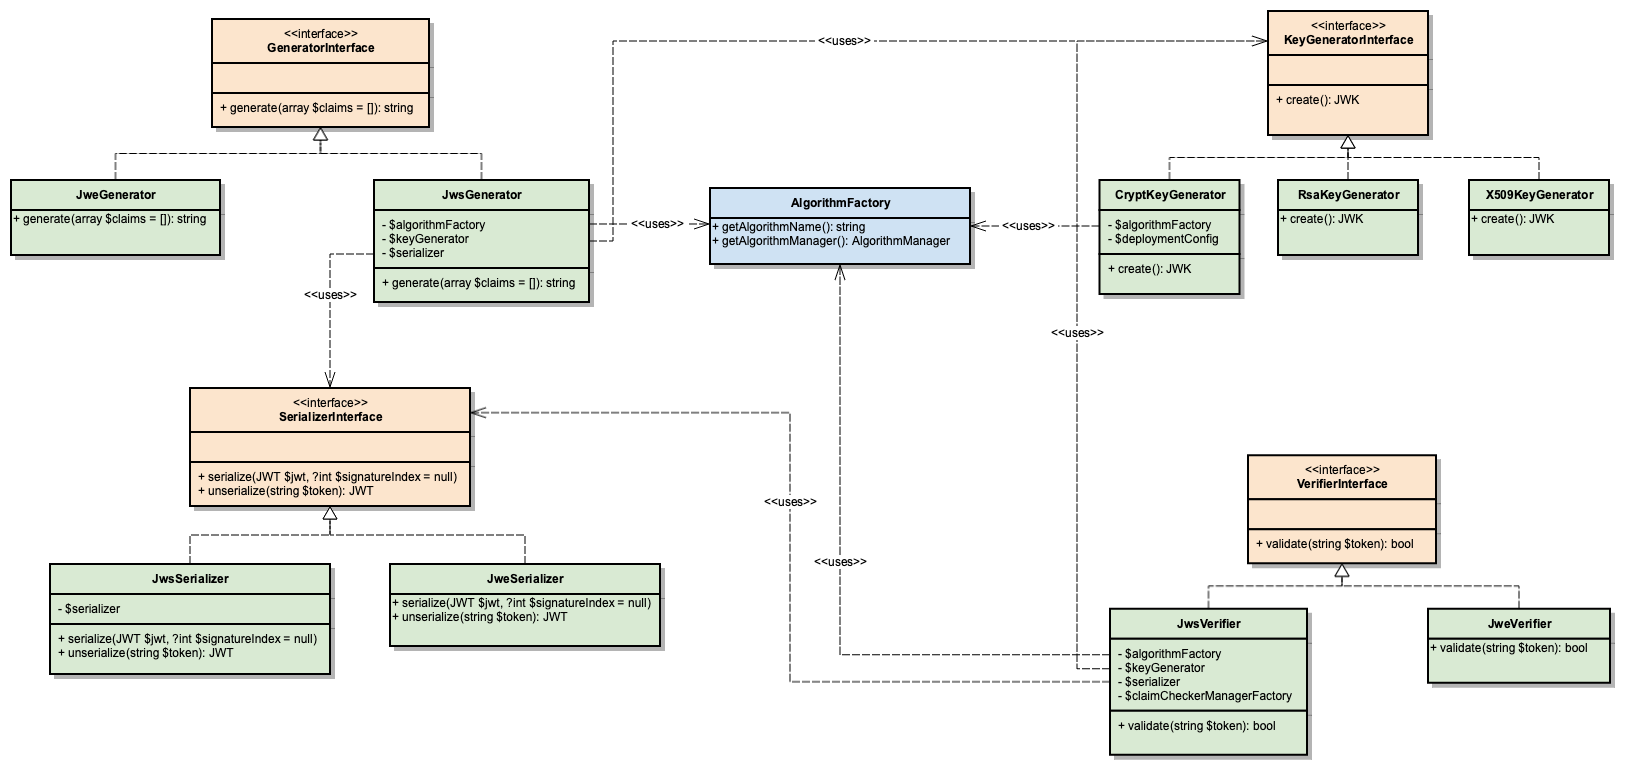
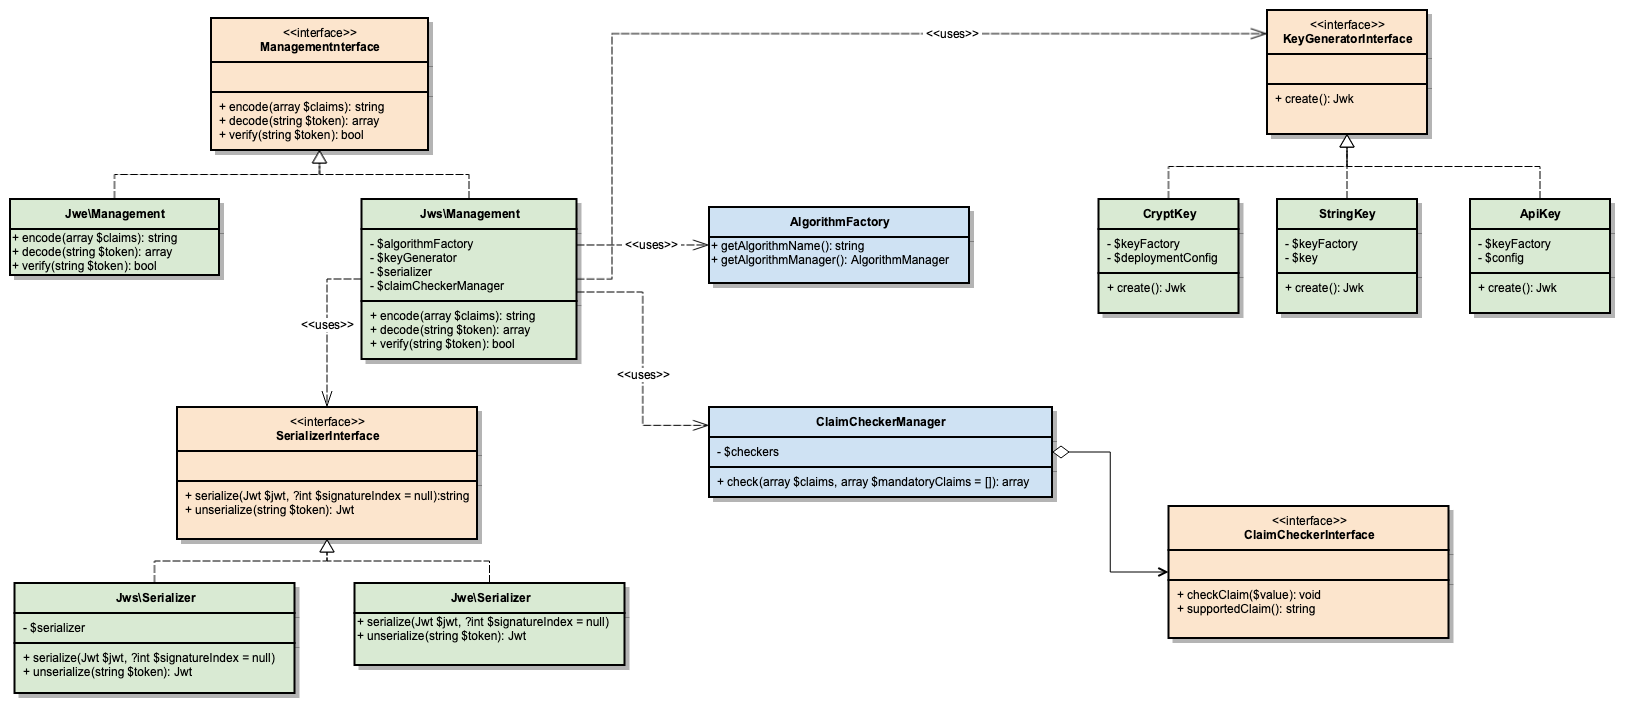
Updated proposal according to implementation changes.

diff --git a/design-documents/jwt-support.md b/design-documents/jwt-support.md
@@ -59,122 +59,172 @@ The following diagram represents needed interfaces to unify the workflow for JWT
 
 ![Class diagram](img/jwt-class-diagram.png)
 
-The `\Magento\Framework\Jwt\KeyGeneratorInterface` will provide a possibility to use different types of key generators like: Magento deployment secret key, X.509 certificates or RSA keys.
+The `\Magento\Framework\Jwt\KeyGeneratorInterface` provides a possibility to use different types of key generators like: Magento deployment secret key, X.509 certificates or RSA keys.
 ```php
 interface KeyGeneratorInterface
 {
-    public function create(): JWK;
+    public function create(): Jwk;
 }
 
-class CryptKeyGenerator implements KeyGeneratorInterface
+class CryptKey implements KeyGeneratorInterface
 {
-    public function __construct(AlgorithmFactory $algorithmFactory, DeploymentConfig $deploymentConfig)
+    public function __construct(SecretKeyFactory $keyFactory, DeploymentConfig $deploymentConfig)
     {
-        $this->algorithmFactory = $algorithmFactory;
         $this->deploymentConfig = $deploymentConfig;
+        $this->keyFactory = $keyFactory;
     }
 
-    public function create(): JWK
+    public function create(): Jwk
     {
         $secret = (string) $this->deploymentConfig->get('crypt/key');
-        return JWKFactory::createFromSecret(
-            $secret,
-            ['alg' => $this->algorithmFactory->getAlgorithmName(), 'use' => 'sig']
-        );
+        return $this->keyFactory->create($secret);
     }
 }
 ```
 
-The `\Magento\Framework\Jwt\GeneratorInterface` might be used to generate JWT based on claims:
+The `\Magento\Framework\Jwt\ManagementInterface` is a base abstraction for JWT encoding/decoding/verification:
 ```php
-interface GeneratorInterface
+interface ManagementInterface
 {
-    public function generate(array $claims = []): string;
-}
+    /**
+     * Generates JWT in header.payload.signature format.
+     *
+     * @param array $claims
+     * @return string
+     * @throws \Exception
+     */
+    public function encode(array $claims): string;
 
-class JwsGenerator implements GeneratorInterface
-{
-    public function __construct(
-        AlgorithmFactory $algorithmFactory,
-        CryptKeyGenerator $keyGenerator,
-        SerializerInterface $serializer
-    ) {
-        $this->algorithmFactory = $algorithmFactory;
-        $this->keyGenerator = $keyGenerator;
-        $this->serializer = $serializer;
-    }
+    /**
+     * Parses JWT and returns payload.
+     *
+     * @param string $token
+     * @return array
+     */
+    public function decode(string $token): array;
 
-    public function generate(array $claims = []): string
-    {
-        $timestamp = time();
-        $baseClaims = [
-            'iat' => $timestamp,
-            'nbf' => $timestamp,
-            'exp' => $timestamp + 36000,
-            'use' => 'sig'
-        ];
-
-        $payload = json_encode(array_merge($claims, $baseClaims));
-
-        $jwsBuilder = new JWSBuilder(null, $this->algorithmFactory->getAlgorithmManager());
-        $jws = $jwsBuilder->create()
-            ->withPayload($payload)
-            ->addSignature($this->keyGenerator->create(), ['alg' => $this->algorithmFactory->getAlgorithmName()])
-            ->build();
-
-        return $this->serializer->serialize($jws);
-    }
+    /**
+     * Verifies JWT signature and claims.
+     * Throws \InvalidArgumentException if claims verification fails.
+     *
+     * @param string $token
+     * @return bool
+     * @throws \InvalidArgumentException
+     */
+    public function verify(string $token): bool;
 }
 ```
-It will have implementations for JWS and JWE (the default preference will be for JWS implementation).
 
-The `\Magento\Framework\Jwt\VerifierInterface` provides a possibility to validate received JWT. The implementation might use claims validation for more advanced payload verification.
+It has implementations for JWS and JWE. The default preference is JWS implementation and looks like this:
 ```php
-interface VerifierInterface
-{
-    public function validate(string $token): bool;
-}
-
-class JwsVerifier implements VerifierInterface
+class Management implements ManagementInterface
 {
     public function __construct(
-        AlgorithmFactory $algorithmFactory,
         KeyGeneratorInterface $keyGenerator,
         SerializerInterface $serializer,
-        ClaimCheckerManagerFactory $checkerManagerFactory
+        AlgorithmFactory $algorithmFactory,
+        Json $json,
+        ClaimCheckerManager $claimCheckerManager
     ) {
-        $this->algorithmFactory = $algorithmFactory;
         $this->keyGenerator = $keyGenerator;
         $this->serializer = $serializer;
-        $this->checkerManagerFactory = $checkerManagerFactory;
+        $this->algorithmFactory = $algorithmFactory;
+        $this->json = $json;
+        $this->claimCheckerManager = $claimCheckerManager;
     }
 
-    public function validate(string $token): bool
+    public function encode(array $claims): string
+    {
+        // as payload represented by url encode64 on json string,
+        // the same claims structure with different key's order will get different payload hash
+        ksort($claims);
+        $payload = $this->json->serialize($claims);
+
+        $jwsBuilder = new JWSBuilder($this->algorithmFactory->getAlgorithmManager());
+        $jws = $jwsBuilder->create()
+            ->withPayload($payload)
+            ->addSignature(
+                $this->keyGenerator->create()->getKey(),
+                [
+                    'alg' => $this->algorithmFactory->getAlgorithmName(),
+                    'typ' => 'JWT'
+                ]
+            )
+            ->build();
+
+        return $this->serializer->serialize(new Jwt($jws));
+    }
+
+    public function decode(string $token): array
+    {
+        $decoded = $this->serializer->unserialize($token);
+        return $this->json->unserialize($decoded->getToken()->getPayload());
+    }
+
+    public function verify(string $token, array $mandatoryClaims = []): bool
     {
         $verifier = $this->getVerifier();
-        $jws = $this->serializer->unserialize($token);
+        $jws = $this->serializer->unserialize($token)
+            ->getToken();
 
-        if (!$verifier->verifyWithKey($jws, $this->keyGenerator->create(), 0)) {
+        if (!$verifier->verifyWithKey($jws, $this->keyGenerator->create()->getKey(), 0)) {
             return false;
         };
 
-        $checkers = ['iat', 'nbf', 'exp'];
-        $claimChecker = $this->checkerManagerFactory->add('iat', new IssuedAtChecker())
-            ->add('nbf', new NotBeforeChecker())
-            ->add('exp', new ExpirationTimeChecker())
-            ->create($checkers);
-
-        $payload = json_decode($jws->getPayload(), true);
-
-        try {
-            $claimChecker->check($payload, $checkers);
-        } catch (InvalidClaimException | MissingMandatoryClaimException $e) {
-            throw new \InvalidArgumentException($e->getMessage());
-        }
+        $payload = $this->json->unserialize($jws->getPayload());
+        $this->claimCheckerManager->check($payload);
 
         return true;
     }
 }
 ```
 
-The [POC](https://github.com/joni-jones/magento2/tree/jwt-auth) replaces the usage of standard WEB API access tokens by JWT and shows how the wrappers and their usage might look like.
+### Claims validation
+
+The `\Magento\Framework\Jwt\ClaimCheckerManager` provides a possibility to validate different set of claims like issuer, token, expiration time, audience. The list of claim checkers can be provided via `di.xml` and each checker should implement `\Magento\Framework\Jwt\ClaimCheckerInterface`.
+The following test shows how different types of claim checkers can be used for the validation:
+```php
+public function testCheck(): void
+{
+    $claims = [
+        'iss' => 'dev',
+        'iat' => 1561564372,
+        'exp' => 1593100372,
+        'aud' => 'dev',
+        'sub' => 'test',
+        'key' => 'value'
+    ];
+
+    /** @var ClaimCheckerManager $claimCheckerManager */
+    $claimCheckerManager = $objectManager->create(
+        ClaimCheckerManager::class,
+        [
+            'checkers' => [
+                IssuerChecker::class,
+                ExpirationTimeChecker::class,
+                IssuedAtChecker::class
+            ]
+        ]
+    );
+
+    $checked = $claimCheckerManager->check($claims, ['iss', 'iat', 'exp']);
+    self::assertEquals(
+        [
+            'iss' => 'dev',
+            'iat' => 1561564372,
+            'exp' => 1593100372,
+        ],
+        $checked
+    );
+}
+```
+
+### Custom key generators
+
+The `\Magento\Framework\Jwt\KeyGeneratorInterface` provides a possibility to create custom key generators like based on random string, API keys, etc. The default implementation provides key generators based on env `crypt/key` (`\Magento\Framework\Jwt\KeyGenerator\CryptKey`) and simple string (`\Magento\Framework\Jwt\KeyGenerator\StringKey`).
+
+## Summary
+
+The proposed functionality can be added in a patch release. The introduced interfaces can be marked as @api in the next minor release.
+
+The [POC](https://github.com/joni-jones/magento2/tree/jwt-auth) provides a possibility to use JWT wrappers instead of own implementation for Cardinal Commerce integration.
